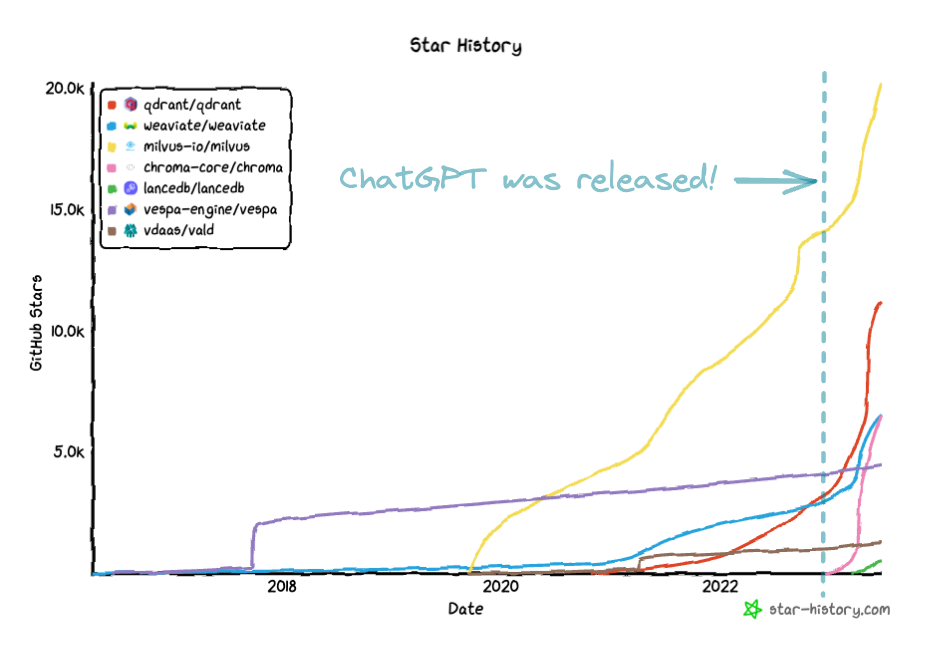
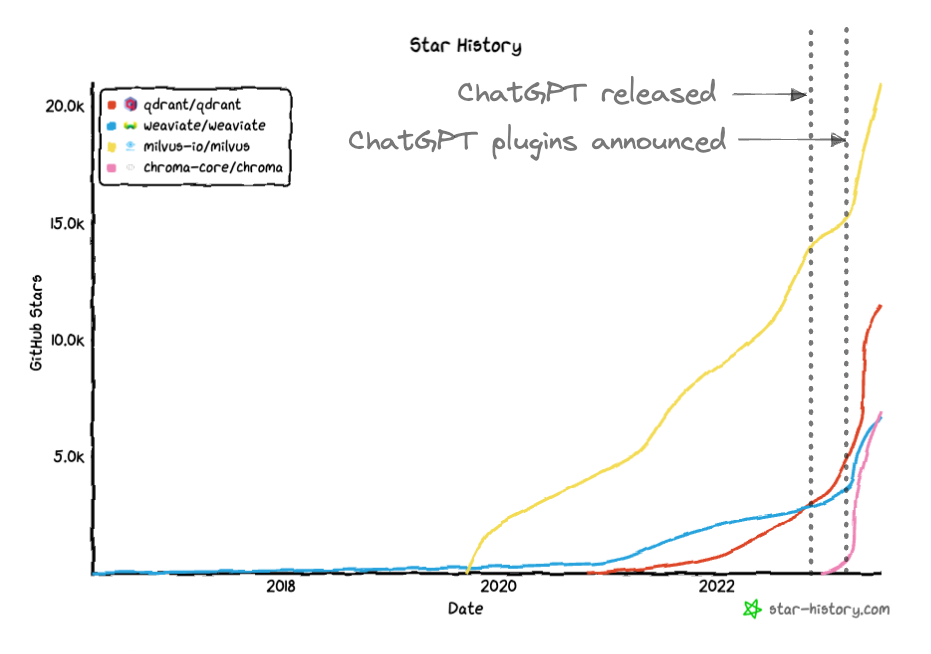
Finalize content for part 2 of vector db post

diff --git a/content/posts/vector-db-2/index.md b/content/posts/vector-db-2/index.md
@@ -1,78 +1,73 @@
 +++ 
 draft = true
-date = 2023-07-02
-title = "Vector databases (Part 2): A primer on embeddings and vector search"
-description = "How vector can databases be used to power downstream applications, like chatting with your data via LLMs"
+date = 2023-07-09
+title = "Vector databases (Part 2): Understanding their internals"
+description = "A primer on embeddings, semantic similarity and search"
 tags = ["vector-db"]
 categories = ["general", "databases"]
 math = true
 +++
 
-# How vector databases power a host of downstream applications
+# A primer on embeddings, indexing and vector search
 
-## Why are vector DBs so much in demand?
+This is the second post in a series on vector databases. As mentioned in [part 1](../vector-db-1/) of this series, there's been a lot of marketing (and unfortunately, hype) related to vector databases in the first half of 2023, and if you're reading this, you're likely curious what vector databases are actually doing under the hood, and how search functionality is built on top of efficient vector storage.
 
-This is the second post in a series on vector databases. In this post, I'll describe at a reasonably high level what vector databases are doing under the hood, without going into too much technical detail on the indexing algorithms used -- that's for another post! As mentioned in [part 1](../vector-db-1/) of this series, there's been a lot of marketing (and unfortunately, hype) related to vector databases in the first half of 2023, and if you're reading this, you're likely curious what vector databases are actually doing under the hood, and how search engines, and search functionality in general, are built on top of efficient vector storage.
+## Why is everybody talking about vector databases these days?
 
-But first of all, what can explain the frenzy of activity and investment in the vector DB space?
+Before going deeper into what vector DBs are, what can explain this frenzy of activity and investment in this space?
 
 ### The age of Large Language Models (LLMs)
 
-In November 2022, an early demo of ChatGPT (which is OpenAI's interface to GPT 3.5 and above) was released, following which it quickly became the [fastest growing application in history](https://www.forbes.com/sites/cindygordon/2023/02/02/chatgpt-is-the-fastest-growing-ap-in-the-history-of-web-applications/), gaining a million users in just 5 days 🤯! Indeed, if you look at the ⭐ history on GitHub for the major open-source vector database repos, it's clear that there are sharp spikes in the star counts for some of them _after_ the release of ChatGPT. However, GitHub stars are just one way of gauging popularity of a framework. As can be seen in the chart below, not all technologies experienced the same spike in interest, meaning that the rising tide of marketing by several newer vector database vendors can be attributed, at least in part, to this uptick in 2023.
+In November 2022, an early demo of ChatGPT (which is OpenAI's interface to GPT 3.5 and above) was released, following which it quickly became the [fastest growing application in history](https://www.forbes.com/sites/cindygordon/2023/02/02/chatgpt-is-the-fastest-growing-ap-in-the-history-of-web-applications/), gaining a million users in just 5 days 🤯! Indeed, if you look at the ✨ history on GitHub for some of the major open-source vector database repos, it's clear that there were sharp spikes in the star counts for some of them _after_ the release of ChatGPT in November 2022 and the subsequent release of [ChatGPT plugins](https://openai.com/blog/chatgpt-plugins) in March 2023. These factors, and their associated posts in websites like Hacker News and popular media[^1], are a large part of why there's been such a lot of hype in this space.
 
-{{< figure src="vector-db-stars.png" caption="Made with ❤ by [star-history.com](https://star-history.com/)">}}
+{{< figure src="vector-db-stars.png" caption="Made with ❤ by [star-history.com](https://star-history.com/#qdrant/qdrant&weaviate/weaviate&milvus-io/milvus&chroma-core/chroma&Date)">}}
 
 ### The problem with relying on LLMs
 
-LLMs are _generative_, meaning that they generate meaningful, coherent text in a sequential manner based on a user prompt. However, when it comes to search & retrieval, this cannot on its own guarantee quality, accuracy or relevancy of the result generated.
+LLMs are _generative_, meaning that they produce meaningful, coherent text in a sequential manner based on a user prompt. However, when using LLMs to answer a human's questions, they often produce irrelevant or factually incorrect results.
 
-- LLMs store/memorize a compressed version of their training data, and although they do so quite well, they don't do so _perfectly_ (some information is always "lost" in a model's internal representation of the data)
+- An LLM often _hallucinates_, i.e., it fabricates information, such as pointing users to URLs or making up numbers that don't exist
+- LLMs learn/memorize a compressed version of their training data, and although they learn quite well, they don't do so _perfectly_ -- some information is always "lost" in a model's internal representation of the data
 - An LLM cannot know facts that occurred after its training was completed
-- An LLM often _hallucinates_, i.e., fabricates non-existent information, such as pointing users to URLs that don't exist
 
-Vector databases help address many of these problems, via their highly efficient underlying storage layer that can be made easily accessible to an LLM. Unlike traditional databases, vector DBs utilize data structures that natively store data in vector form. As a result, we can now build applications with an LLM sitting on top of a vector storage layer that contains recent, up-to-date, factual data (well past the LLM's training date) to the end user.
+Vector databases help address these problems, via their highly efficient underlying storage layer that can be made easily accessible to an LLM that can then retrieve facts. Unlike traditional databases, vector DBs utilize data structures that natively represent data as vectors. As a result, we can now build applications with an LLM sitting on top of a vector storage layer that contains recent, up-to-date, factual data (well past the LLM's training date) and use them to "ground" the model, alleviating the hallucination problem.
 
-Although vector database implementations (e.g., Vespa, Weaviate) existed well before the advent of LLMs, after the release of ChatGPT, the open-source community, as well as marketing teams at existing database vendors quickly realized their benefits in mainstream use cases like information retrieval and search. It's mainly for this reason that there's been an absolute bonanza of VC funding going on in the world of vector databases.
-
-{{<notice note>}}
-All this being said, there are genuine technical reasons why efficient vector storage is critical to a world with LLMs in it, so the rest of this post will focus on these aspects.
-{{</notice>}}
+Although vector databases (e.g., Vespa, Weaviate, Milvus) have existed well before LLMs, since the release of ChatGPT, the open-source community, as well as marketing teams at the vector DB vendors quickly realized their potential in mainstream use cases like search & retrieval in combination with high-quality text generation. This explains the absolute bonanza of VC funding in the world of vector databases!
 
 ## What is a vector embedding?
 
-The data being stored in a vector database is in the form of embeddings, which are essentially lists of numbers (floats) that encode the contextual meaning of the data, which could be images, audio or text. Intuitively, when we refer to an "embedding", we are talking about a **compressed**, low-dimensional representation of data (images, text, audio) that actually exists in higher dimensions.
+A vector database stores not only the original data (which could be images, audio or text), but also its encoded form: _embeddings_. These embeddings are essentially lists of numbers (i.e., vectors) that store contextual representations of the data. Intuitively, when we refer to an "embedding", we are talking about a **compressed**, low-dimensional representation of data (images, text, audio) that actually exists in higher dimensions.
 
-The dimension of the embedding depends on the number of data points $m$, and the embedding size of the vector $n$.
+Within the storage layer, the database stacks $m$ vectors, each representing a data point using $n$ dimensions, for a total size of $m \times n$. The stacks are typically partitioned via sharding for query performance reasons.
 
 {{< figure src="vector-embedding.png" >}}
-
-To store the entire data in the embedding space, the vectors that represent each data point are stacked together in an efficient manner, with optimizations in place to perform lookups at scale.
 
 
 ## How are embeddings generated?
 
-The transformer revolution in NLP[^1] has provided practitioners ample means to generate these compressed representations, or embeddings.
+The transformer revolution in NLP[^2] has provided engineers with ample means to generate these compressed representations, or embeddings very efficiently, and at scale.
 
-- The most popular method is via the open source library `sentence-transformers`, available via [Hugging Face model hub](https://huggingface.co/models?library=sentence-transformers) or directly from [the source repo](https://www.sbert.net/)
-- A less common and rather expensive way, is to use one of many paid API services:
+- The most popular method is via the open source library `sentence-transformers`, available via the [Hugging Face model hub](https://huggingface.co/models?library=sentence-transformers) or directly from [the source repo](https://www.sbert.net/)
+- Another (more expensive) method is to use one of many API services:
    - [OpenAI embeddings API](https://platform.openai.com/docs/guides/embeddings)
    - [Cohere embeddings API](https://cohere.com/embed)
 
-It's important to keep in mind that the lower the dimensionality of the underlying vectors, the more compressed the representation, which can affect downstream task quality. Sentence Transformers (sbert) provides embedding models with a dimension $n$ in the range of 384, 512 and 768, and the models are completely free and open-source. OpenAI and Cohere's embeddings, which require a paid API call to generate, can be considered higher quality due to a dimensionality of a few thousand. One reason it makes sense to use a paid API to generate embeddings is if your data is multilingual (Cohere is known to possess high-quality [multilingual embedding models](https://docs.cohere.com/docs/multilingual-language-models#model-performance) that perform better than open source variants).
+It's important to keep in mind that the lower the dimensionality of the underlying vectors, the more compact the representation is in embedding space, which can affect downstream task quality. Sentence Transformers (sbert) provides embedding models with a dimension $n$ in the range of 384, 512 and 768, and the models are completely free and open-source. OpenAI and Cohere embeddings, which require a paid API call to generate them, can be considered higher quality due to a dimensionality of a few thousand. One reason it makes sense to use a paid API to generate embeddings is if your data is multilingual (Cohere is known to possess high-quality multilingual embedding models that [are known to perform better](https://docs.cohere.com/docs/multilingual-language-models#model-performance) than open source variants).
 
 {{< notice note >}}
-The choice of model used to generate embeddings is typically a trade-off between quality and cost. In most cases, for textual data in English, the open-source embeddings from sentence transformers can be utilized as is for text that isn't too long (~300-400 words for text sequences). It's possible to deal with text that's longer than the context length of sentence transformer models, but that's for another post!
+The choice of embedding model is typically a trade-off between quality and cost. In most cases, for textual data in English, the open-source `sentence-transformers` model can be utilized as is for text that isn't too long (~300-400 words for text sequences). It's possible to deal with text that's longer than the context length of `sentence-transformers`, which requires more external tools, but that topic's for another post!
 {{< /notice >}}
 
 ## Storing the embeddings in vector databases
 
-Because of their amenability to operating in embedding space, vector databases are proving to be very useful in the realm of _semantic or similarity-based search_ for all forms of inputs (text, video/image, audio). This form of search considers semantics, where the input query sent by the user (typically in natural language) is translated into vector form, in the same embedding space as the data itself, so that results that are most similar to the input are returned. A visualization of this is shown below.
+Because of their amenability to operating in embedding space, vector databases are proving to be very useful for _semantic or similarity-based search_ for all forms of inputs (text, image, audio). This form of search considers semantics, where the input query sent by the user (typically in natural language) is translated into vector form, in the same embedding space as the data itself, so that the top-k results that are most similar to the input query are returned. A visualization of this is shown below.
 
 {{< figure src="embedding-pipeline.png">}}
 
 ## How is similarity computed?
 
 The various vector databases offer different metrics to compute similarity, but for text, the following two metrics are most commonly used:
+
 - __Dot product__: This produces a non-normalized value of an arbitrary magnitude
 - __Cosine distance__: This produces a normalized value (between -1 and 1)
 
@@ -96,72 +91,117 @@ Once the vector embeddings are generated and stored, when a user submits a searc
 
 {{< figure src="knn.png">}}
 
-The most naive way to do this is to compare the query vector with each and every vector in the database, with the so-called k-nearest neighbour method. However, **this quickly becomes expensive** as we scale to millions (or billions) of vectors, as the number of comparisons required keeps increasing linearly with the data.
+The most naive way to do this is to compare the query vector with each and every vector in the database, with the so-called k-nearest neighbour (kNN) method. However, **this quickly becomes way too expensive** as we scale to millions (or billions) of vectors, as the number of comparisons required keeps increasing linearly with the data.
 
 ### Approximate nearest neighbours (ANN)
 
-The reason why vector databases are so powerful is that they make search highly efficient (regardless of the size of the dataset), via a class of algorithms called __Approximate Nearest Neighbour__ (ANN) search algorithms. Instead of performing an exhaustive search, an approximate search is performed for nearest neighbours, resulting in some loss of accuracy in the search result, but a massive performance gain.
+Every existing vector database focuses on making search highly efficient, regardless of the size of the dataset, via a class of algorithms called __Approximate Nearest Neighbour__ (ANN) search. Instead of performing an exhaustive comparison between every vector in the database, an approximate search is performed for nearest neighbours, resulting in some loss of accuracy in the result (the _truly_ nearest neighbour may not always be returned), but a massive performance gain is possible using ANN algorithms.
 
 ## Indexing
 
-Data is stored in a vector database via _indexing_, which refers to the act of creating index data structures that efficiently look up the vectors by rapidly narrowing down on the search space. The deep learning models that encode the raw data as vectors typically produce vectors of high dimensionality (of the order of $10^2$ or $10^3$), and so, an ANN algorithm must attempt to generate a lower dimensional representation that captures the actual complexity of the data as efficiently as possible in time and space.
+Data is stored in a vector database via _indexing_, which refers to the act of creating index data structures that efficiently look up vectors by rapidly narrowing down on the search space. The embedding models used to store the data as vectors typically have a relatively high dimensionality (of the order of $10^2$ or $10^3$), so ANN algorithms attempt to generate lower dimensional representations that capture the actual complexity of the data as efficiently as possible in time and space.
 
-There are many vector indexing algorithms powering ANN search, and the details of them are out of the scope of this post. Stay tuned for a more technical description in part 3 of this series!
+There are many indexing algorithms that power ANN search, and their details are out of the scope of this post (I'll be studying these in future posts).
 
 - Locally Sensitive Hashing (LSH)
 - Inverted File Index (IVF)
 - Hierarchical Navigable Small World (HNSW) graphs
 - Vamana (utilized in the DiskANN implementation)
 
-In general, the state-of-the-art in ANN indexing is achieved by newer algorithms like HNSW and Vamana, but not all database vendors offer newer indexing options like Vamana (yet).
+In a nutshell, the state-of-the-art in indexing and ANN search quality is achieved by newer algorithms like HNSW and Vamana, but few database vendors offer the DiskANN implementation of Vamana (as of today).
 
 ## Putting it all together
 
-To sum up what we covered so far: A vector database enables similarity search by scalably and rapidly retrieving the top-k approximate nearest neighbours for a given input query, and they achieve this by building efficient indexing structures under the hood. The choice of indexing algorithm impacts the quality of the similarity search, and this is a key area in which the different vector database vendors differ in their internals.
+We can combine all the above ideas to form a mental picture of what a vector database actually _is_.
 
-The following sequence of steps are performed to build a similarity search engine in production:
+{{< figure src="vector-db-components.png">}}
 
-1. Transform raw data (text, images or audio) into vector embeddings using an appropriate embedding model (e.g., sentence transformers for text embeddings)
-1. Build an ANN index using the generated vectors
-1. Expose the vectors to a front end application via a search API layer
-    - The API simply takes in the user query, transforms it into vector space using the same embedding model that was used to vectorize the data itself
-1. Return the top-k approximate nearest neighbours that are closest to the given input query
+Depending on the database in question, the storage layer may be local (for embedded databases or vector stores like FAISS), or on the cloud (Pinecone, Milvus, etc.). Typically, an API gateway and load balancer sits between the application layer and the storage layer. The specifics of how each of these are implemented are not important for practitioners -- it's up to each database vendor to architect the system considering the trade-offs between latency, cost and scalability.
+
+### Storage layer and data ingestion
+- The data of interest, which sits anywhere (locally or on the cloud) is fed to an embedding model, and ingested into the storage layer of a vector DB via the API gateway
+- The data is indexed, during which it's partitioned/sharded for scalability and faster lookups
+- The query engine is tightly integrated with the storage layer, to allow for rapid retrieval of nearest neighbours via the database's ANN implementation
+
+### Application layer
+- A human sends a human-understandable language query via an application's UI to the embedding model, which converts the input query to a vector and sends it to the query engine via the API gateway
+  - The embedding model used by the application layer must be the same as the one used to index the data, to ensure that the two sets of vectors are in the same embedding space
+- The query engine handles multiple incoming queries asynchronously, and sends the top-k results back to the human
 
 ---
 
-# What can we do best with vector databases?
+## Extending vector databases to serve other functions
 
-In this section, I'll cover peripheral areas around vector databases, and the kinds of applications we're seeing become more and more common due to inherent scalability of these systems.
+The use case above shows how vector DBs enable semantic search at a scale that was not possible several years ago, unless you were a big tech company with massive resources. However, this is just the tip of the iceberg: vector DBs can be used to power a host of downstream functions.
 
-## Don't get tunnel vision when it comes to vector search
+### Hybrid search systems
 
-In his excellent review post[^2], Colin Harman describes how a lot of companies experience "tunnel vision" when it comes to the search & retrieval landscape. Vector databases not the panacea -- they are very good at being the base layer of _semantic_ search applications, but in many cases, traditional keyword search can yield more relevant results and increased user satisfaction, as pointed out by Harman[^3]. Why is this? It's largely to do with the fact that the ranking and scoring criteria used by vector indexes do not reward exactness of keywords in the query input.
+In his excellent review post[^3], Colin Harman describes how a lot of companies, due to the plethora of vector DB marketing material out there today, experience "tunnel vision" when it comes to the search & retrieval landscape. As practitioners, we have to remember that vector databases are not the panacea of search -- they are very good at _semantic_ search, but in many cases, traditional keyword search can yield more relevant results and increased user satisfaction[^4]. Why is that? It's largely to do with the fact that ranking based on metrics like cosine similarity causes results that have a higher similarity score to appear above partial matches that may contain specific input keywords, reducing their relevance to the end user.
 
-- __Keyword search__: Finds relevant, useful results when the user _knows_ what they're looking for and expects results that match exact phrases in their search terms
-- __Vector search__: Finds relevant results when the user _doesn't_ know what exactly they're looking for
+However, pure keyword search also has its own limitations -- in case the user enters a term that is semantically similar to the stored data (but is not exact), potentially useful and relevant results are not returned. As a result of this trade-off, real-world use cases for search & retrieval demand a combination of keyword and vector searches, **of which vector databases form a key component** (because they house the embeddings, enabling semantic similarity search and are able to scale to very large datasets).
+
+To summarize the points above:
+- __Keyword search__: Finds relevant, useful results when the user _knows_ what they're looking for and expects results that match exact phrases in their search terms. Does **not** require vector databases.
+- __Vector search__: Finds relevant results when the user _doesn't_ know what exactly they're looking for. Requires a vector database.
+- __Hybrid keyword + vector search__: Typically combines candidate results from full-text keyword and vector searches and re-ranks them using cross-encoder models (see below). Requires both a document database and a vector database.
+
+This can be effectively visualized per the diagram below:
+
+{{< figure src="vector-hybrid-search.png" caption="Diagram inspired by [Qdrant blog post](https://qdrant.tech/articles/hybrid-search/)" >}}
+
+BM25[^5] is the most common indexing algorithm used for keyword search in certain databases (e.g., Elasticsearch, Opensearch, MongoDB). It produces a _sparse_ vector, by considering keyword term frequencies in relation to their inverse document frequency (IDF). In contrast, vector databases typically encode and store text in embeddings represented by _dense_ vectors (none of the terms in the vector are zero, unlike BM25), and this is typically done via a bi-encoder model like BERT, that produces a sentence embedding for a pair of documents, that can then be compared to produce a cosine similarity score.
+
+#### Understanding the difference between bi-encoders and cross-encoders
+
+To effectively perform hybrid search, it becomes necessary to combine search result candidates obtained via BM25 (keyword search) and cosine similarity (vector search), which requires a _cross-encoder_. This is a downstream step, as shown in the image below, that allows two sentences to be simultaneously passed to an encoder model like BERT. Unlike the bi-encoder that's used to produce sentence embeddings, a cross-encoder doesn't produce embeddings, but rather, it allows us to classify a pair of sentences by assigning them a score between 0 and 1, via a softmax layer. This is termed **_re-ranking_**, and is a very powerful approach to obtaining results that combine the best of both worlds (keyword + vector search).
 
 
-To get the best results, a combination of scalar (keyword-based) and vector search are often used by practitioners building information retrieval and search systems.
+{{< figure src="vector-encoders.png" caption="Diagram inspired by [Sentence transformers docs](https://www.sbert.net/examples/applications/cross-encoder/README.html)" >}}
 
-The bottom line, per Harman[^2]:
+{{< notice info>}}
+It should be noted that re-ranking via cross-encoders is an expensive step, as it requires the use of a transformer model during query time. This approach is used when the quality of search is critical to a use case, and requires more compute resources (typically, GPUs) and tuning time to ensure that the application is performing as intended.
+{{< /notice >}}
 
-> If you're not very familiar with the field of search & information retrieval, the following materials **should NOT** be your primary sources of information for any kind of decision making on architecting your system:
+## Generative QA: "Chatting with your data"
+
+With the advent of powerful LLMs like GPT-4, we can effectively integrate the user experience of an application with clean, factual information stored in a vector DB, allowing the user to query their data via natural language. Because question-answering can involve more than just information retrieval (it may require parts of the data to be analyzed, not just queried), including an agent-based framework like LangChain[^6] can be very helpful for these workflows.
+
+{{< figure src="vector-db-qa.png" >}}
+
+Because vector DBs store the data to be queried as embeddings, and the LLM also encodes the knowledge within it as embeddings, they are a natural pairing when it comes to generative QA applications. The vector DB functions as a knowledge base, and the LLM can query a subset of the data directly in the embedding space. This can be done using the following approach:
+
+1. Human asks a question in natural language via the UI
+2. The question's text is passed to an embedding model (bi-encoder), which then returns a sentence embedding vector
+3. The question vector is passed to the vector DB, which returns the top-k most similar results, obtained via an ANN search
+    - This step is **crucial**, as it massively narrows down the search space for the LLM, used in the next step
+4. An LLM prompt is constructed (based on the developer's predefined template), converted to an embedding, and passed to the LLM
+    - A framework like LangChain makes it convenient to perform this step, as the prompt can be dynamically constructed and the LLM's native embedding module called without the developer having to write a lot of custom code for each workflow
+5. The LLM searches the top-k results for the information, and produces an answer to the question
+6. The answer is sent back to the human
+
+The above workflow can be extended in many ways, thanks to frameworks like LangChain -- for example, if the question involved some arithmetic on numbers obtained from the database (which LLMs are notoriously bad at), LangChain could pass the numerical information extracted from the top-k results to a calculator API, perform the calculations, and then send the answer back to the user. With such composable workflows, it's easy to see how powerful, generative QA chat interfaces can be developed with ease using vector databases.
+
+## Conclusions
+
+There are many other useful applications that can be built combining the inherent power of LLMs and vector DBs. However, it's important to understand some the underlying limitations of vector DBs:
+- They do not necessarily care about exact keyword phrase matches when it comes to search.
+- The data being stored and queried in vector databases must fit inside the maximum sequence length of the embedding model used (for BERT-like models, this is no longer than  a few hundred words). Currently, the best way to do so is to utilize frameworks like LangChain and LlamaIndex[^7] to chunk or squash the data into a fixed-sized vector that fits into the underlying model's context.
+
+Vector databases are incredibly powerful, but the bottom line, per Harman[^3], applies to all of them:
+
+> If you're not very knowledgeable about vector databases, and in general, the search and information retrieval space, the following materials **should NOT** be your primary sources of information for any kind of decision-making on choosing your tech stack:
 > - Infrastructure stacks from super-smart VCs
 > - Tutorials from popular LLM application frameworks
 
-## How are hybrid search systems built?
+Just like in any other domain, clearly defining the business case and studying the tools at hand allows you to combine them effectively to solve real-world problems. In that regard, I hope this series on vector DBs was helpful so far!
 
-Qdrant and Meilisearch example:
-https://qdrant.tech/articles/hybrid-search/
-
-Meilisearch thoughts on semantic search vs. keyword search:
-https://github.com/meilisearch/meilisearch/issues/3838
-
-## Neural search frameworks
-
-Jina, Haystack and txtai
+In the next post, I'll go deeper into the technical aspects of indexing algorithms as used by the various DB vendors, and where the technology is headed.
 
 
-[^1]: Revolution in NLP is changing the way companies understand text, [TechCrunch](https://techcrunch.com/sponsor/nvidia/how-the-revolution-of-natural-language-processing-is-changing-the-way-companies-understand-text/)
-[^2]: Beware tunnel vision in AI retrieval: Colin Harman, [Substack](https://colinharman.substack.com/p/beware-tunnel-vision-in-ai-retrieval)
-[^3]: Vector search for clinical decisions, [Haystack US 2023](https://colinharman.substack.com/i/126262800/haystack-us-erica-lesyshyn-and-max-irwin-vector-search-for-clinical-decisions)
+[^1]: The rise of vector databases, [Forbes](https://www.forbes.com/sites/adrianbridgwater/2023/05/19/the-rise-of-vector-databases/?sh=7014b16514a6)
+[^2]: Revolution in NLP is changing the way companies understand text, [TechCrunch](https://techcrunch.com/sponsor/nvidia/how-the-revolution-of-natural-language-processing-is-changing-the-way-companies-understand-text/)
+[^3]: Beware tunnel vision in AI retrieval: Colin Harman, [Substack](https://colinharman.substack.com/p/beware-tunnel-vision-in-ai-retrieval)
+[^4]: Vector search for clinical decisions, [Haystack US 2023](https://colinharman.substack.com/i/126262800/haystack-us-erica-lesyshyn-and-max-irwin-vector-search-for-clinical-decisions)
+[^5]: Okapi BM25, [Wikipedia](https://en.wikipedia.org/wiki/Okapi_BM25)
+[^6]: LangChain docs, [python.langchain.com](https://python.langchain.com/docs/get_started/introduction.html)
+[^7]: LlamaIndex [docs](https://gpt-index.readthedocs.io/en/latest/index.html)
